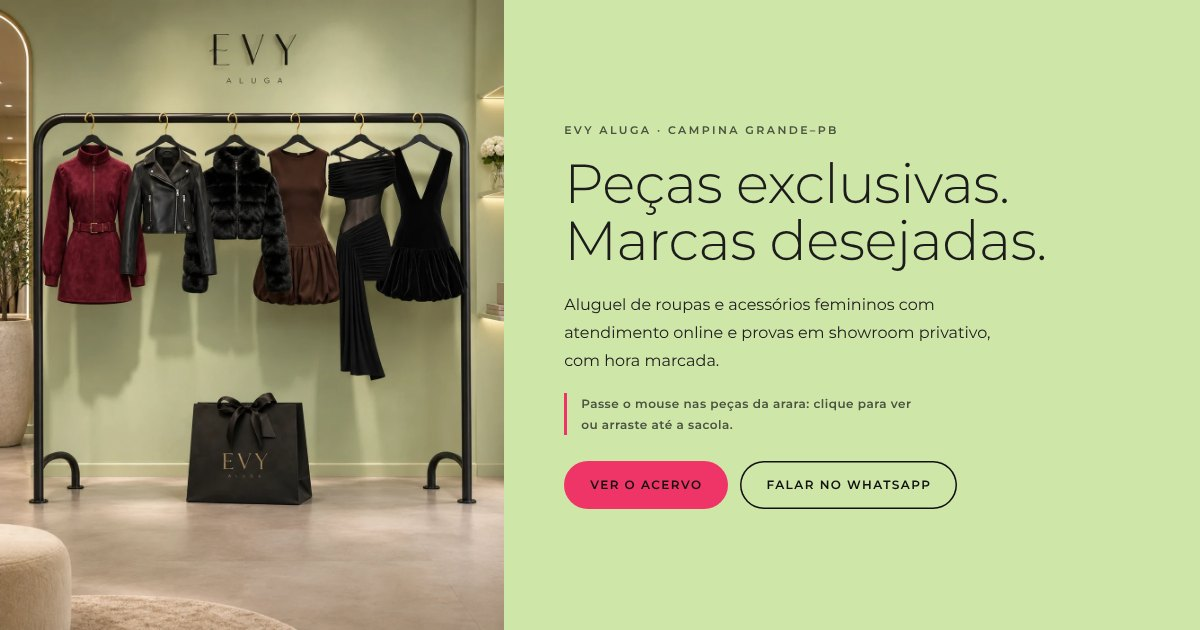
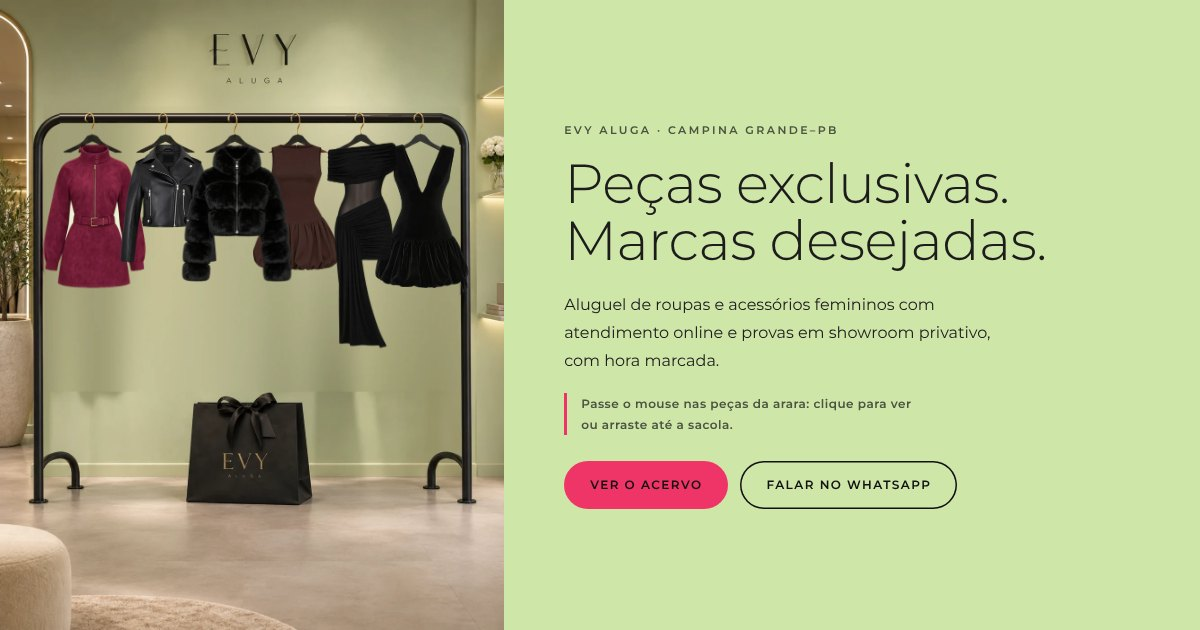
Vitrine EVY: peças em camadas que balançam, sem sombras na parede
- Fundo: foto da boutique sem as roupas e sem as sombras, com a arara preservada.
- Cada peça é uma camada (recorte em alta resolução + cabide e gancho da foto)
  que balança presa ao gancho ao entrar na página e ao passar o mouse.
- Ao arrastar, só a peça escolhida sai da arara e cai na sacola.

Claude-Session: https://claude.ai/code/session_01JWzVUeVVFgoHDUGqF9rBry

Changed region(s): [[0.0308, 0.181, 0.4008, 0.6032]]

diff --git a/js/app.js b/js/app.js
@@ -189,13 +189,37 @@ let pecaPendente=null;
     const p=PORID[v.id];if(!p)return;
     const b=document.createElement('button');
     b.type='button';b.className='ponto peca';b.dataset.id=p.id;b.dataset.img=v.img;
-    b.style.cssText='--x:'+v.area[0]+'%;--y:'+v.area[1]+'%;--w:'+v.area[2]+'%;--h:'+v.area[3]+'%';
+    b.style.cssText='--x:'+v.area[0]+'%;--y:'+v.area[1]+'%;--w:'+v.area[2]+'%;--h:'+v.area[3]+'%;--px:'+v.pivo[0]+'%;--py:'+v.pivo[1]+'%;z-index:'+(v.z||1);
+    b.dataset.px=v.pivo[0];b.dataset.py=v.pivo[1];
     b.setAttribute('aria-label',p.name+': toque para ver detalhes ou arraste até a sacola');
-    b.innerHTML='<span class="ponto-nome" aria-hidden="true">'+esc(p.name)+'</span><span class="ponto-selo" aria-hidden="true">Na sacola</span>';
+    b.innerHTML='<img class="camada" src="'+esc(v.img)+'" alt="" draggable="false" decoding="async"><span class="ponto-nome" aria-hidden="true">'+esc(p.name)+'</span><span class="ponto-selo" aria-hidden="true">Na sacola</span>';
     $('vitrinePontos').append(b);
   });
 })();
-function balancar(){} // compatibilidade com atualizarContadores
+/* Pêndulo amortecido: cada peça balança presa ao gancho. */
+const pendulos=new Map();let loopPendulo=0,ultimoPendulo=0;
+function balancar(btn,impulso){
+  if(movimentoReduzido())return;
+  const s=pendulos.get(btn)||{a:0,v:0};s.v+=impulso;pendulos.set(btn,s);
+  if(!loopPendulo){ultimoPendulo=performance.now();loopPendulo=requestAnimationFrame(passoPendulo)}
+}
+function passoPendulo(t){
+  const dt=Math.min(.033,(t-ultimoPendulo)/1000);ultimoPendulo=t;
+  pendulos.forEach((s,btn)=>{
+    s.v+=(-30*s.a-2.2*s.v)*dt;s.a+=s.v*dt;s.a=Math.max(-14,Math.min(14,s.a));
+    btn.style.setProperty('--balanco',s.a.toFixed(2)+'deg');
+    if(Math.abs(s.a)<.02&&Math.abs(s.v)<.04){pendulos.delete(btn);btn.style.setProperty('--balanco','0deg')}
+  });
+  loopPendulo=pendulos.size?requestAnimationFrame(passoPendulo):0;
+}
+/* Entrada: as peças balançam levemente, uma após a outra. */
+document.querySelectorAll('.ponto').forEach((b,i)=>setTimeout(()=>balancar(b,(i%2?-1:1)*14),400+i*120));
+/* Passar o mouse empurra a peça na direção do movimento. */
+document.querySelectorAll('.ponto').forEach(b=>b.addEventListener('pointermove',e=>{
+  if(e.pointerType!=='mouse'||arraste)return;
+  const s=pendulos.get(b);if(s&&Math.abs(s.v)>14)return;
+  balancar(b,Math.max(-16,Math.min(16,e.movementX*1.3)));
+}));
 
 let arraste=null,ignorarClique=false;
 function retanguloSacola(){const r=sacolaCena.getBoundingClientRect(),m=Math.max(24,r.width*.2);return{l:r.left-m,r:r.right+m,t:r.top-m*1.4,b:r.bottom+m*.4}}
@@ -233,19 +257,21 @@ function iniciarArraste(g){
   g.ativo=true;
   try{g.btn.setPointerCapture(g.id)}catch(_){}
   const br=g.btn.getBoundingClientRect(),pr=palco.getBoundingClientRect();
-  g.w=br.width;g.h=br.height;
-  g.pivo={x:br.left+br.width/2-pr.left,y:br.top-pr.top};
+  g.w=br.width;g.h=br.height;g.fx=parseFloat(g.btn.dataset.px)/100;g.fy=parseFloat(g.btn.dataset.py)/100;
+  g.pivo={x:br.left+br.width*g.fx-pr.left,y:br.top+br.height*g.fy-pr.top};
   g.casa={...g.pivo};
   g.off={x:g.pivo.x-(g.x0-pr.left),y:g.pivo.y-(g.y0-pr.top)};
-  g.vel={x:0,y:0};g.ang=0;g.angV=0;g.escala=.9;
+  g.vel={x:0,y:0};g.ang=0;g.angV=0;g.escala=1;
   const voando=document.createElement('div');voando.className='peca-voando';
-  voando.style.width=g.w+'px';voando.style.height=g.h+'px';
+  voando.style.width=g.w+'px';voando.style.height=g.h+'px';voando.style.transformOrigin=(g.fx*100)+'% '+(g.fy*100)+'%';
   voando.innerHTML='<img src="'+esc(g.btn.dataset.img)+'" alt="" draggable="false">';
   palco.append(voando);g.no=voando;
+  g.btn.classList.add('arrastando');balancar(g.btn,0);
   desenhar(g);
   g.t=performance.now();g.raf=requestAnimationFrame(t=>passoArraste(g,t));
 }
-function desenhar(g){g.no.style.transform='translate('+(g.pivo.x-g.w/2).toFixed(1)+'px,'+g.pivo.y.toFixed(1)+'px) rotate('+g.ang.toFixed(2)+'deg) scale('+g.escala.toFixed(3)+')'}
+function posicao(g,x,y,ang,esc_){return 'translate('+(x-g.w*g.fx).toFixed(1)+'px,'+(y-g.h*g.fy).toFixed(1)+'px) rotate('+ang.toFixed(2)+'deg) scale('+esc_.toFixed(3)+')'}
+function desenhar(g){g.no.style.transform=posicao(g,g.pivo.x,g.pivo.y,g.ang,g.escala)}
 function passoArraste(g,t){
   if(!g.ativo)return;
   const dt=Math.min(.033,Math.max(.001,(t-g.t)/1000));g.t=t;
@@ -263,19 +289,19 @@ function passoArraste(g,t){
   g.raf=requestAnimationFrame(tt=>passoArraste(g,tt));
 }
 function devolver(g){
-  const de=g.no.style.transform,para='translate('+(g.casa.x-g.w/2)+'px,'+g.casa.y+'px) rotate(0deg) scale(.9)';
-  const fim=()=>g.no.remove();
+  const de=g.no.style.transform,para=posicao(g,g.casa.x,g.casa.y,0,1);
+  const fim=()=>{g.no.remove();g.btn.classList.remove('arrastando');balancar(g.btn,-g.ang*2.5)};
   if(movimentoReduzido()||!g.no.animate){fim();return}
-  const an=g.no.animate([{transform:de,opacity:1},{transform:para,opacity:0}],{duration:380,easing:'cubic-bezier(.2,.8,.25,1)',fill:'forwards'});an.onfinish=fim;
+  const an=g.no.animate([{transform:de},{transform:para}],{duration:420,easing:'cubic-bezier(.2,.8,.25,1)',fill:'forwards'});an.onfinish=fim;
 }
 function soltarNaSacola(g){
   const p=PORID[g.btn.dataset.id];
   const pr=palco.getBoundingClientRect(),sr=sacolaCena.getBoundingClientRect();
   const bocaX=sr.left+sr.width/2-pr.left,bocaY=sr.top+sr.height*.12-pr.top;
   const de=g.no.style.transform;
-  const meio='translate('+(bocaX-g.w/2)+'px,'+(bocaY-g.h*.5)+'px) rotate('+(g.ang*.3)+'deg) scale(.45)';
-  const fim='translate('+(bocaX-g.w/2)+'px,'+(bocaY+sr.height*.2-g.h*.35)+'px) rotate(0deg) scale(.3)';
-  pecaPendente=p.id;atualizarContadores();
+  const meio=posicao(g,bocaX,bocaY-g.h*.5,g.ang*.3,.45);
+  const fim=posicao(g,bocaX,bocaY+sr.height*.15-g.h*.3,0,.3);
+  pecaPendente=p.id;g.btn.classList.remove('arrastando');atualizarContadores();
   const concluir=()=>{
     g.no.remove();
     sacolaCena.classList.remove('recebeu');void sacolaCena.offsetWidth;sacolaCena.classList.add('recebeu');

diff --git a/js/acervo.js b/js/acervo.js
@@ -93,74 +93,105 @@ window.EVY_ACERVO=[
  {"id": "look-09", "name": "Vestido preto com saia balonê", "kind": "Vestidos", "size": ["A confirmar"], "price": null, "color": "Preto", "photo": "assets/evy-looks/09-preto-balone-frontal.png", "fit": "contain", "code": "EVY-089"}
 ];
 
-/* Vitrine: foto da boutique EVY com áreas interativas sobre cada peça e sobre a sacola.
-   area = [esquerda, topo, largura, altura] em % da foto; img = recorte usado ao arrastar.
-   Ao trocar a foto, atualize apenas as áreas. */
+/* Vitrine: foto da boutique EVY separada em camadas.
+   fundo = foto sem as roupas e sem as sombras; cada peça é uma camada com o recorte em alta
+   resolução da roupa e o cabide/gancho recortados da foto que balança presa ao gancho.
+   area = [esquerda, topo, largura, altura] em % da foto; pivo = ponto do gancho em % da camada. */
 window.EVY_VITRINE={
- "foto": "assets/vitrine/boutique.webp",
- "fotoCelular": "assets/vitrine/boutique-800.webp",
+ "fundo": "assets/vitrine/boutique-fundo.webp",
+ "fundoCelular": "assets/vitrine/boutique-fundo-800.webp",
  "largura": 1122,
  "altura": 1402,
  "pecas": [
   {
    "id": "borgonha",
    "area": [
-    8.47,
-    21.4,
-    20.5,
-    27.1
+    8.645,
+    16.833,
+    20.321,
+    28.959
    ],
-   "img": "assets/cutouts/casaco-borgonha-cinto.png"
+   "pivo": [
+    44.8,
+    3.2
+   ],
+   "img": "assets/vitrine/camadas/borgonha.webp",
+   "z": 1
   },
   {
    "id": "biker",
    "area": [
-    24.06,
-    22.25,
-    18.89,
-    24.25
+    23.886,
+    16.833,
+    19.073,
+    24.75
    ],
-   "img": "assets/vitrine/biker.webp"
+   "pivo": [
+    44.9,
+    4.0
+   ],
+   "img": "assets/vitrine/camadas/biker.webp",
+   "z": 2
   },
   {
    "id": "fur",
    "area": [
-    36.36,
-    22.25,
-    21.39,
-    24.25
+    36.096,
+    16.833,
+    21.836,
+    27.96
    ],
-   "img": "assets/vitrine/fur.webp"
+   "pivo": [
+    55.2,
+    3.6
+   ],
+   "img": "assets/vitrine/camadas/fur.webp",
+   "z": 3
   },
   {
    "id": "marrom",
    "area": [
-    50.45,
-    22.68,
-    16.93,
-    26.03
+    50.178,
+    16.833,
+    17.291,
+    26.034
    ],
-   "img": "assets/vitrine/marrom.webp"
+   "pivo": [
+    49.0,
+    3.8
+   ],
+   "img": "assets/vitrine/camadas/marrom.webp",
+   "z": 2
   },
   {
    "id": "assimetrico",
    "area": [
-    64.88,
-    22.68,
-    13.55,
-    37.8
+    64.795,
+    16.833,
+    14.082,
+    38.445
    ],
-   "img": "assets/vitrine/assimetrico.webp"
+   "pivo": [
+    46.1,
+    2.6
+   ],
+   "img": "assets/vitrine/camadas/assimetrico.webp",
+   "z": 3
   },
   {
    "id": "balone",
    "area": [
-    74.87,
-    22.68,
-    17.83,
-    25.32
+    74.51,
+    16.833,
+    18.36,
+    28.959
    ],
-   "img": "assets/vitrine/balone.webp"
+   "pivo": [
+    46.1,
+    3.2
+   ],
+   "img": "assets/vitrine/camadas/balone.webp",
+   "z": 2
   }
  ],
  "sacola": [

diff --git a/css/evy.css b/css/evy.css
@@ -73,7 +73,8 @@ h1,h2,h3{margin:0;font-weight:500;line-height:1.1}
 .vitrine-pontos{position:absolute;inset:0;z-index:2}
 .ponto{position:absolute;left:var(--x);top:var(--y);width:var(--w);height:var(--h);padding:0;border:0;background:transparent;cursor:grab;touch-action:none;-webkit-tap-highlight-color:transparent;border-radius:14px;transition:background-color .25s}
 .ponto:active{cursor:grabbing}
-@media (hover:hover) and (pointer:fine){.ponto:hover{background:radial-gradient(ellipse at 50% 45%,#ffffff26,transparent 70%)}}
+.camada{position:absolute;inset:0;width:100%;height:100%;pointer-events:none;transform-origin:var(--px) var(--py);transform:rotate(var(--balanco,0deg));will-change:transform}
+.ponto.arrastando .camada,.ponto.na-sacola .camada{visibility:hidden}
 .ponto:focus-visible{outline:2px solid var(--branco);outline-offset:2px}
 .ponto-nome{position:absolute;left:50%;bottom:-12px;transform:translate(-50%,8px);white-space:nowrap;font-size:11px;font-weight:600;letter-spacing:.1em;text-transform:uppercase;background:var(--preto);color:var(--branco);padding:6px 12px;border-radius:999px;opacity:0;pointer-events:none;transition:opacity .2s,transform .2s;z-index:3}
 @media (hover:hover) and (pointer:fine){.ponto:hover .ponto-nome{opacity:1;transform:translate(-50%,100%)}}
@@ -83,7 +84,7 @@ h1,h2,h3{margin:0;font-weight:500;line-height:1.1}
 .ponto.na-sacola{cursor:pointer}
 /* Peça arrastada: recorte que segue o ponteiro com balanço de pêndulo */
 .peca-voando{position:absolute;left:0;top:0;z-index:20;pointer-events:none;transform-origin:50% 0;will-change:transform}
-.peca-voando img{display:block;width:100%;height:100%;object-fit:contain;filter:drop-shadow(10px 24px 18px #1d22144d)}
+.peca-voando img{display:block;width:100%;height:100%;filter:drop-shadow(8px 18px 14px #1d221438)}
 .peca-voando.caindo{z-index:5}
 .sacola-ponto{position:absolute;z-index:6;padding:0;border:0;background:transparent;border-radius:16px;cursor:pointer;-webkit-tap-highlight-color:transparent;transition:box-shadow .25s,transform .25s}
 .sacola-ponto.alvo{box-shadow:0 0 0 3px var(--rosa),0 0 40px 10px #EF356755;transform:scale(1.03)}

diff --git a/index.html b/index.html
@@ -69,8 +69,8 @@
   <section class="vitrine" id="vitrine" aria-labelledby="vitrine-titulo">
     <div class="vitrine-foto" id="palco">
       <picture>
-        <source media="(max-width:640px)" srcset="assets/vitrine/boutique-800.webp">
-        <img class="vitrine-img" src="assets/vitrine/boutique.webp" width="1122" height="1402" alt="Boutique EVY: arara com casaco vinho, jaqueta biker, casaco de pelos, vestido marrom balonê, vestido assimétrico e vestido de veludo; sacola EVY no chão" draggable="false" fetchpriority="high">
+        <source media="(max-width:640px)" srcset="assets/vitrine/boutique-fundo-800.webp">
+        <img class="vitrine-img" src="assets/vitrine/boutique-fundo.webp" width="1122" height="1402" alt="Boutique EVY com arara preta, espelho em arco, oliveira, prateleiras iluminadas e sacola EVY no chão" draggable="false" fetchpriority="high">
       </picture>
       <div class="vitrine-pontos" id="vitrinePontos"></div>
       <button class="sacola-ponto" id="sacolaCena" type="button" aria-label="Sacola EVY: solte uma peça aqui ou toque para abrir a sacola">
